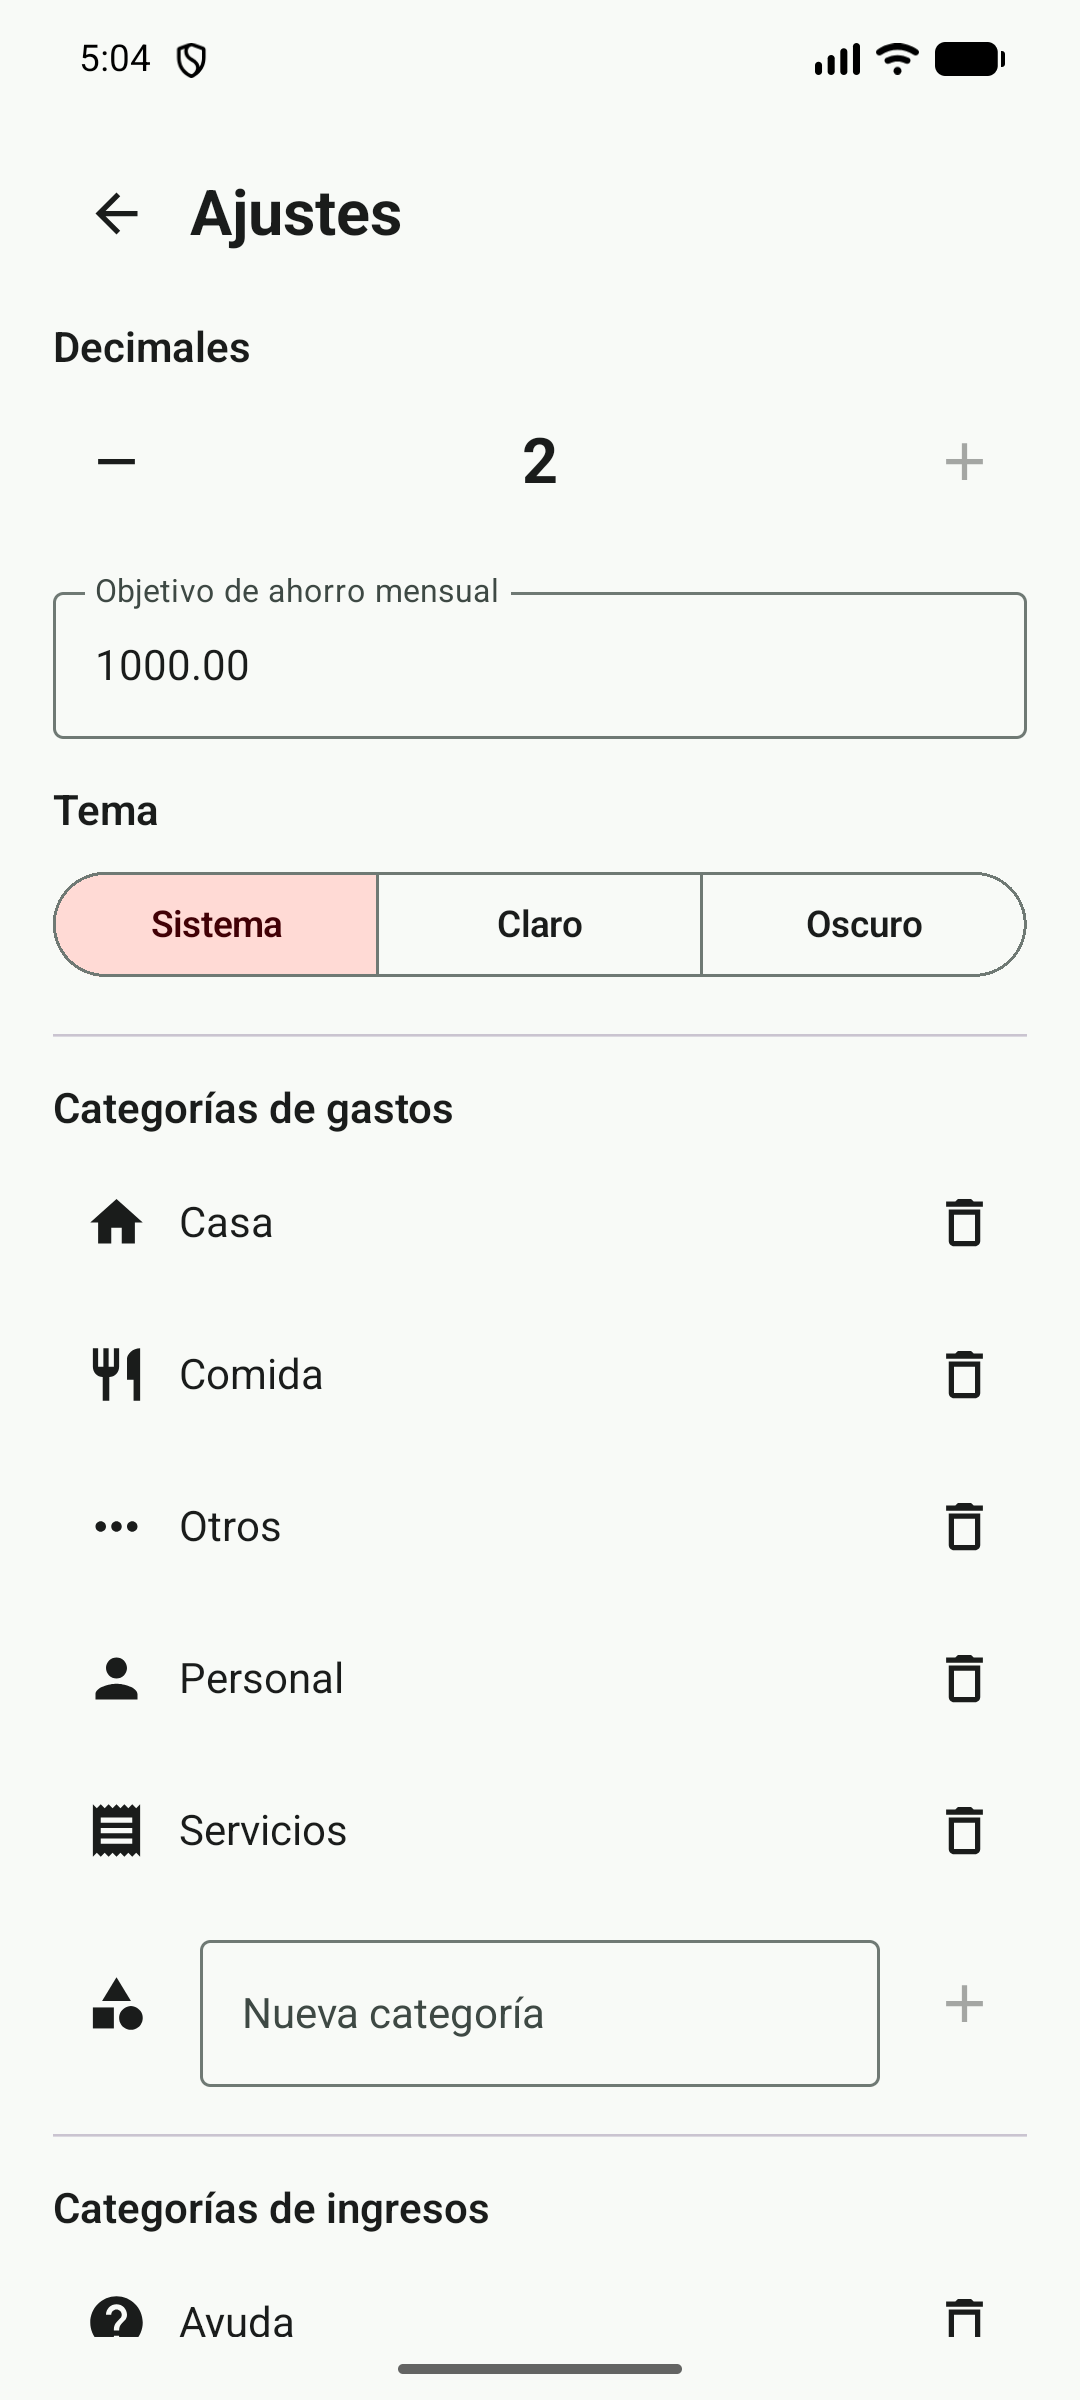
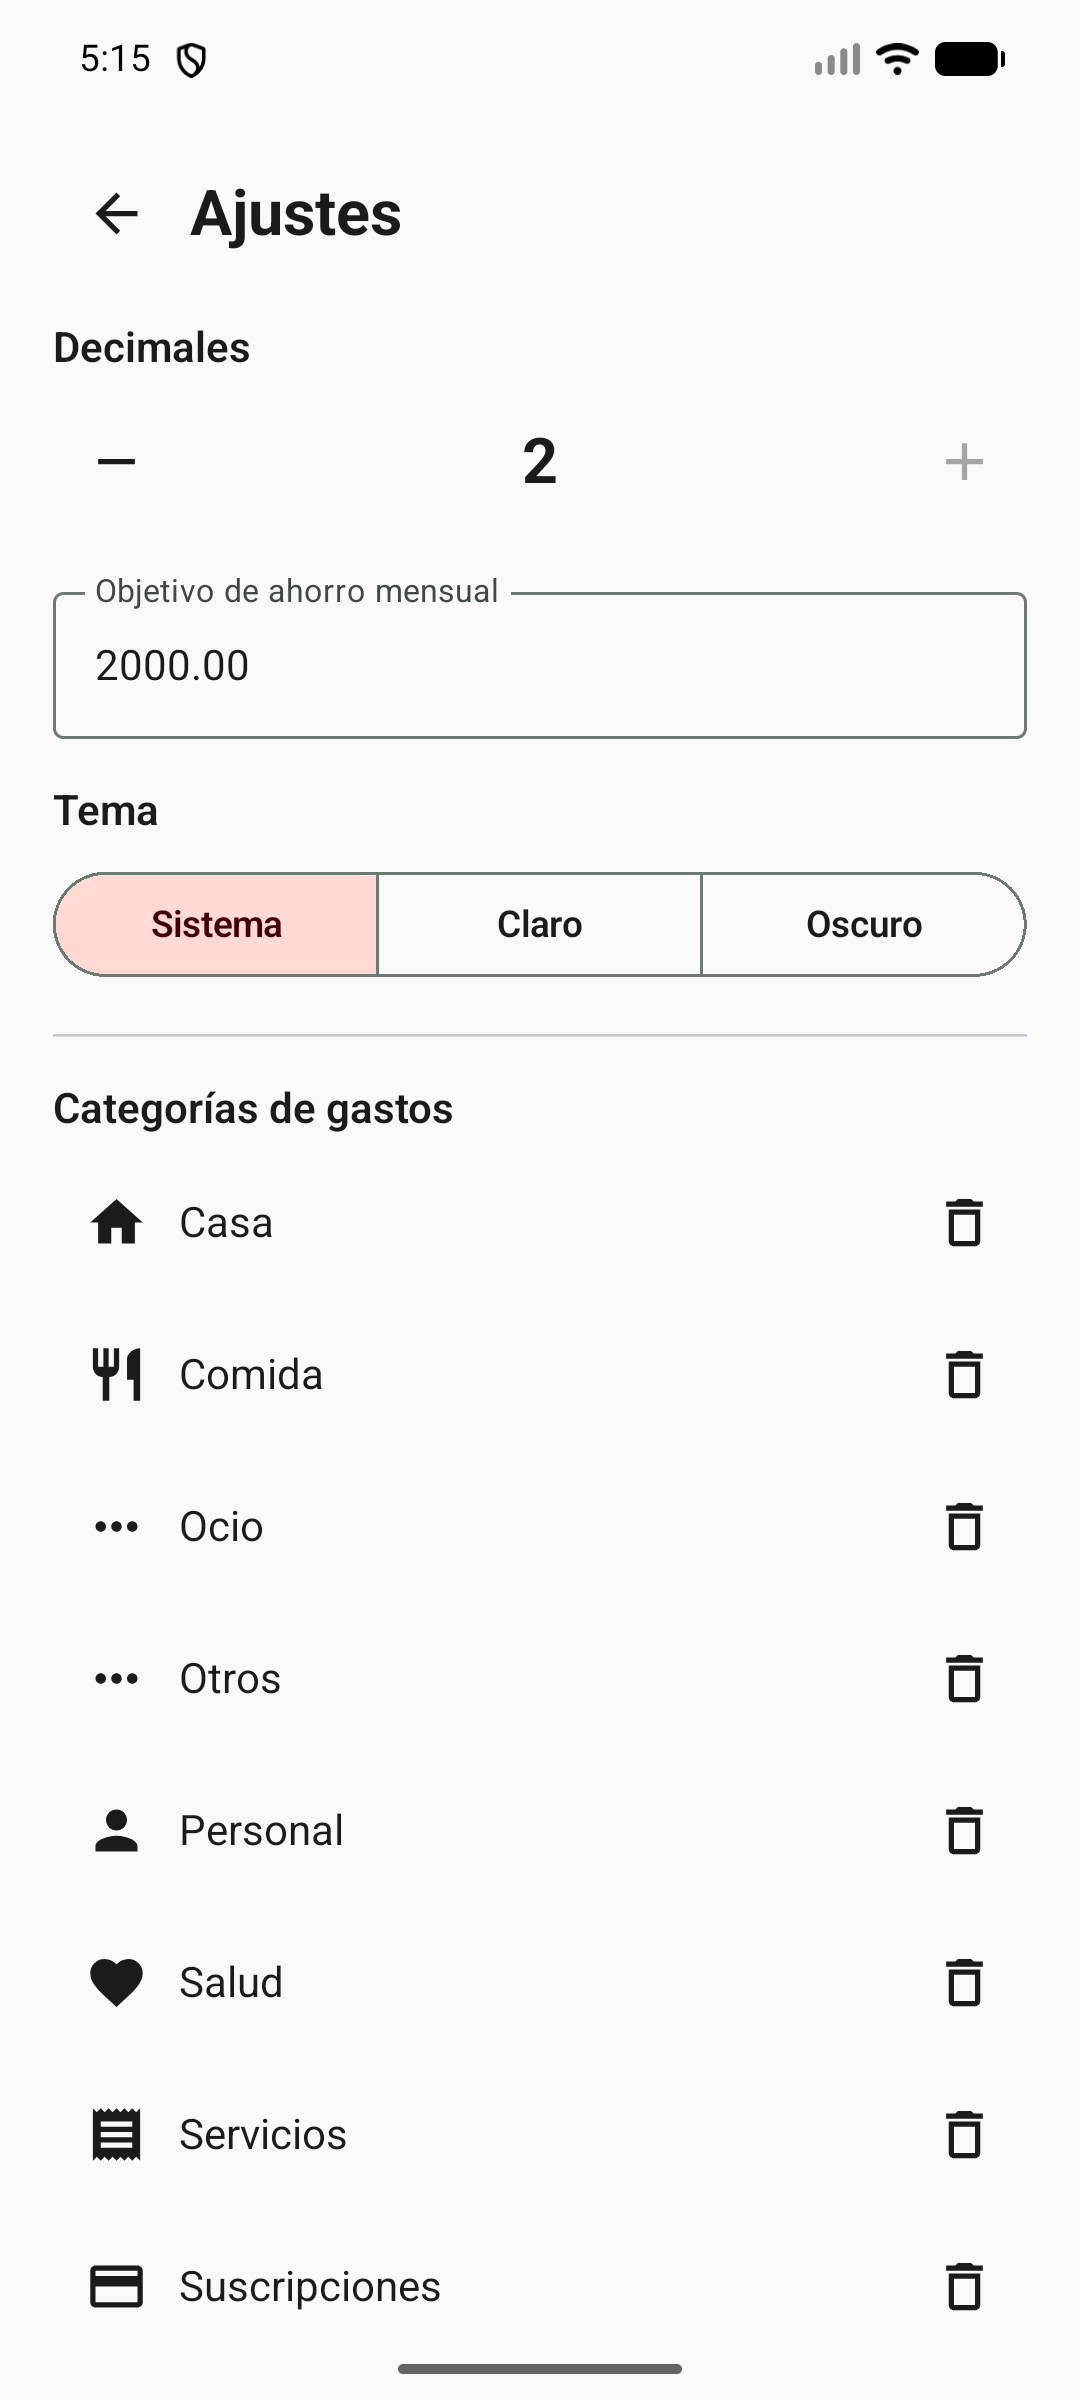
chore: better images for readme

diff --git a/README.md b/README.md
@@ -6,10 +6,13 @@
 </p>
 
 <p align="center">
-  <img src="docs/screenshots/estado.png" alt="Pantalla Estado" width="250">
-  <img src="docs/screenshots/nuevo-gasto.png" alt="Formulario de nuevo gasto" width="250">
-  <img src="docs/screenshots/ajustes.png" alt="Pantalla de ajustes" width="250">
+  <img src="docs/screenshots/estado.png" alt="Resumen mensual con desglose por categoría" width="210">
+  <img src="docs/screenshots/gastos.png" alt="Lista de gastos del mes" width="210">
+  <img src="docs/screenshots/ingresos.png" alt="Lista de ingresos del mes" width="210">
+  <img src="docs/screenshots/ajustes.png" alt="Categorías y ajustes" width="210">
 </p>
+
+<p align="center"><sub>Las capturas usan datos ficticios para mostrar la experiencia con un mes ya en uso.</sub></p>
 
 ## Para qué sirve
 
